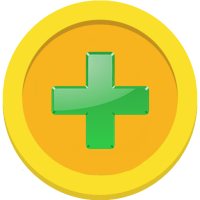
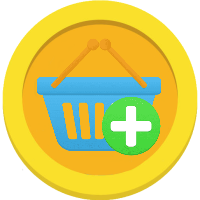
feat: add item history component

Changed region(s): [[0.18, 0.18, 0.81, 0.78]]

diff --git a/src/components/historyStore/index.tsx b/src/components/historyStore/index.tsx
@@ -1,13 +1,45 @@
-import { useAppSelector } from '../../store';
-
+import { useAppDispatch, useAppSelector } from '../../store';
+import { useEffect, useState } from 'react';
+import basketPlus from './../../assets/img/basketAddIco.png';
 import './index.css';
+import { IOrder } from '../../types/interfaces/IOrder';
+import ShopService from '../../services/ShopService';
+import { addProductBasket } from '../../store/storePage/sliceStore/slice';
 
 const HistoryStore = () => {
+
     const { IsHistoryOpen } = useAppSelector(state => state.storePage);
+    const [orderArr, setOrderArr] = useState([] as IOrder[]);
+    const dispatch = useAppDispatch();
+    const id = '1'
+
+    useEffect((() => {
+
+        const getOrder = async () => {
+            const orders = await ShopService.getOrders(id);
+            setOrderArr(orders);
+        }
+        getOrder();
+
+    }), [orderArr, IsHistoryOpen])
 
     return (
         <div className={`main-field-history ${IsHistoryOpen ? 'main-field-history_open' : ''}`}>
             <p className='basket-title-text'>История</p>
+            <div>
+                {orderArr.map((item) => {
+                    return (
+                        <div className='item-history-container'>
+                            <div className='item-history-control'>
+                                <img onClick={() => dispatch(addProductBasket(item.product))} className='item-control_plus' src={basketPlus} alt="basket plus" />
+                            </div>
+                            <p className='item-history-count'>{item.count}</p>
+                            <img className='item-history-img' src={item.product.thumbnail} alt="item history img" />
+                            <p className='item-history-title'>{item.product.title}</p>
+                        </div>
+                    )
+                })}
+            </div>
         </div>
 
     );

diff --git a/src/components/historyStore/index.css b/src/components/historyStore/index.css
@@ -15,3 +15,79 @@
     opacity: 1;
     padding: 0 5px;
 }
+
+
+
+
+
+.item-history-container {
+    position: relative;
+    width: 100%;
+    height: 70px;
+    margin-bottom: 10px;
+    padding: 0 5%;
+}
+
+.item-history-img {
+    border-radius: 10px;
+    width: 100%;
+    height: 100%;
+    object-fit: cover;
+    border-radius: 50;
+    z-index: 0;
+}
+
+.item-history-title {
+    font-size: 14px;
+    overflow: hidden;
+    text-align: center;
+    white-space: nowrap;
+    width: 90%;
+    top: 0;
+    border-top-left-radius: 5px;
+    border-top-right-radius: 5px;
+    z-index: 1;
+    position: absolute;
+    background: rgba(55, 48, 163, 0.7);
+    color: var(--BACKGROUND_BASIC);
+}
+
+.item-history-count {
+    color: var(--BACKGROUND_BASIC);
+    font-weight: 600;
+    width: 25px;
+    height: 25px;
+    background: #47D73E;
+    border-radius: 50%;
+    text-align: center;
+    position: absolute;
+    bottom: -5px;
+    left: -3px;
+}
+
+.item-history-control {
+    display: flex;
+    align-items: center;
+    justify-content: center;
+    position: absolute;
+    width: 90%;
+    height: 100%;
+    background: forestgreen;
+    border-radius: 10px;
+    border: 2px solid var(--COLOR_BLOCK_BORDER);
+    background: rgba(248, 237, 252, 0.7);
+    transition: .3s;
+    z-index: 11;
+    cursor: pointer;
+    opacity: 0;
+}
+
+.item-history-control:hover {
+    opacity: 1;
+}
+
+
+.item-control_plus {
+    width: 45px;
+    height: 45px;
+}

diff --git a/src/components/itemBasketProduct/index.tsx b/src/components/itemBasketProduct/index.tsx
@@ -1,5 +1,5 @@
 import motikoin from './../../assets/img/motekoinIco.png'
-import basketPlus from './../../assets/img/basketAddIco.png';
+import basketPlus from './../../assets/img/basketPlusIco.png';
 import basketMinus from './../../assets/img/basketMinusIco.png';
 import basketDelete from './../../assets/img/basketDeleteIco.png';
 import { ICartProduct } from '../../types/interfaces/IOrder';
@@ -25,7 +25,7 @@ const ItemBasketControl = (item: ICartProduct) => {
                     <p className='basket-item-ico-text'>Цена: {item.product.price}</p>
                     <p className='basket-item-ico-text'>Количество: {item.count}</p>
                     <div className='basket-item-info-price'>
-                        <p className='basket-item-ico-text'>К оплате: {item.count * item.product.price}</p>
+                        <p className='basket-item-ico-text'>Итого: {item.count * item.product.price}</p>
                         <img className='basket-item-ico' src={motikoin} alt="motikoin ico" />
                     </div>
                 </div>

diff --git a/src/store/types/types.ts b/src/store/types/types.ts
@@ -1,5 +1,5 @@
 import { store } from "..";
-import { IProfile } from "../../types/interfaces/IUser";
+import { IProfile} from "../../types/interfaces/IUser";
 import OrderType from "../../types/enums/OrderEnum";
 import RatingSortType from "../../types/enums/RatingSortEnum";
 import { ICartProduct } from "../../types/interfaces/IOrder";

diff --git a/src/components/basketStore/index.css b/src/components/basketStore/index.css
@@ -16,6 +16,10 @@
     padding: 0 5px;
 }
 
+.basker-summary{
+    color: var(--COLOR_FONT_BLACK);
+}
+
 .basket-title-text {
     font-weight: 600;
     font-size: 20px;

diff --git a/src/components/itemBasketProduct/index.css b/src/components/itemBasketProduct/index.css
@@ -43,7 +43,7 @@
     object-fit: cover;
 }
 
-.basket-item-product:hover .basket-item-product_control {
+.basket-item-product_control:hover {
     opacity: 1;
 }
 
